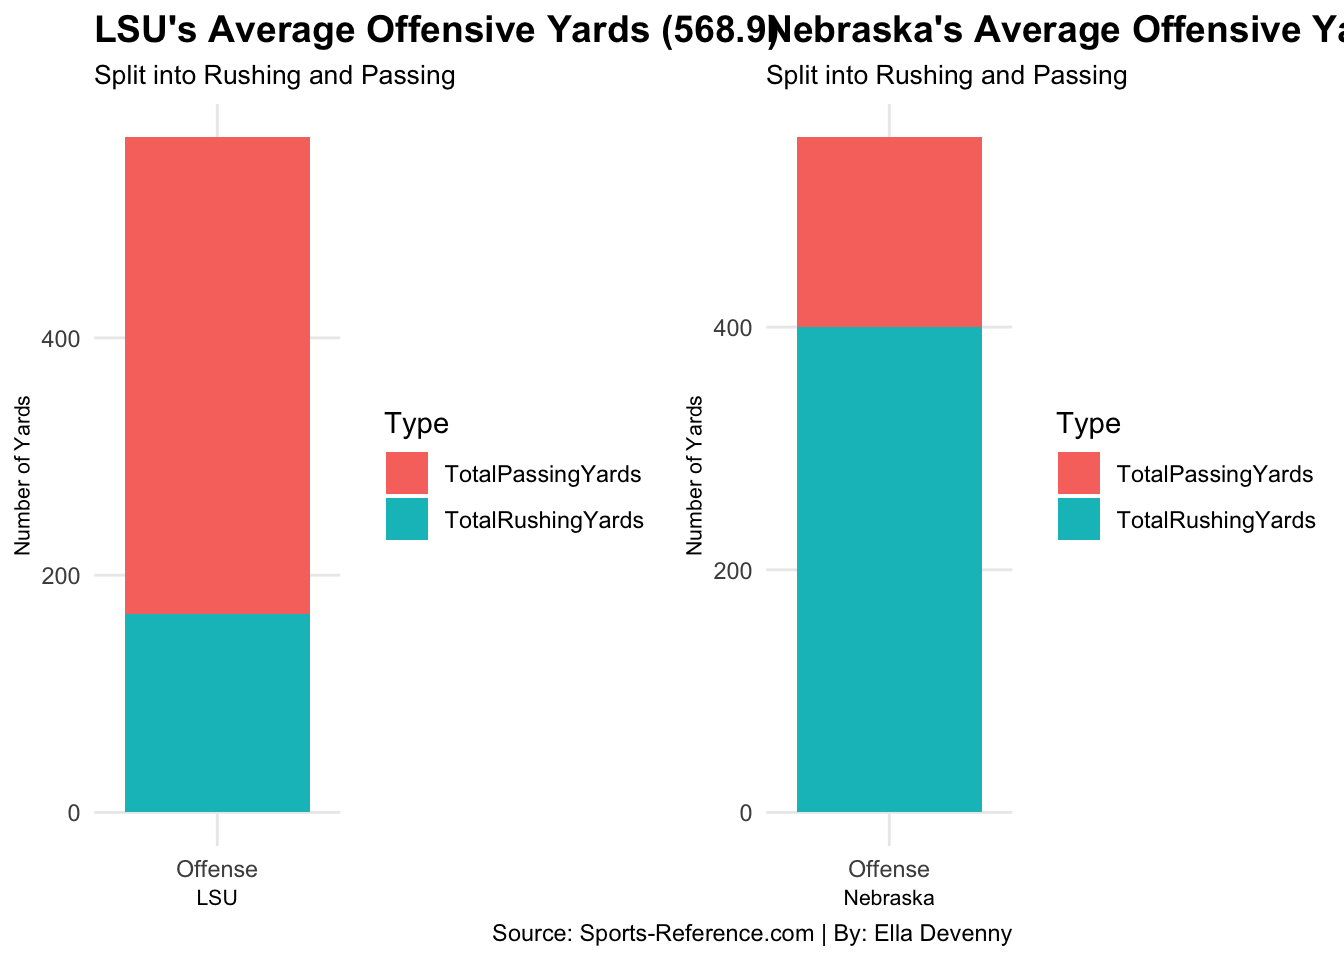
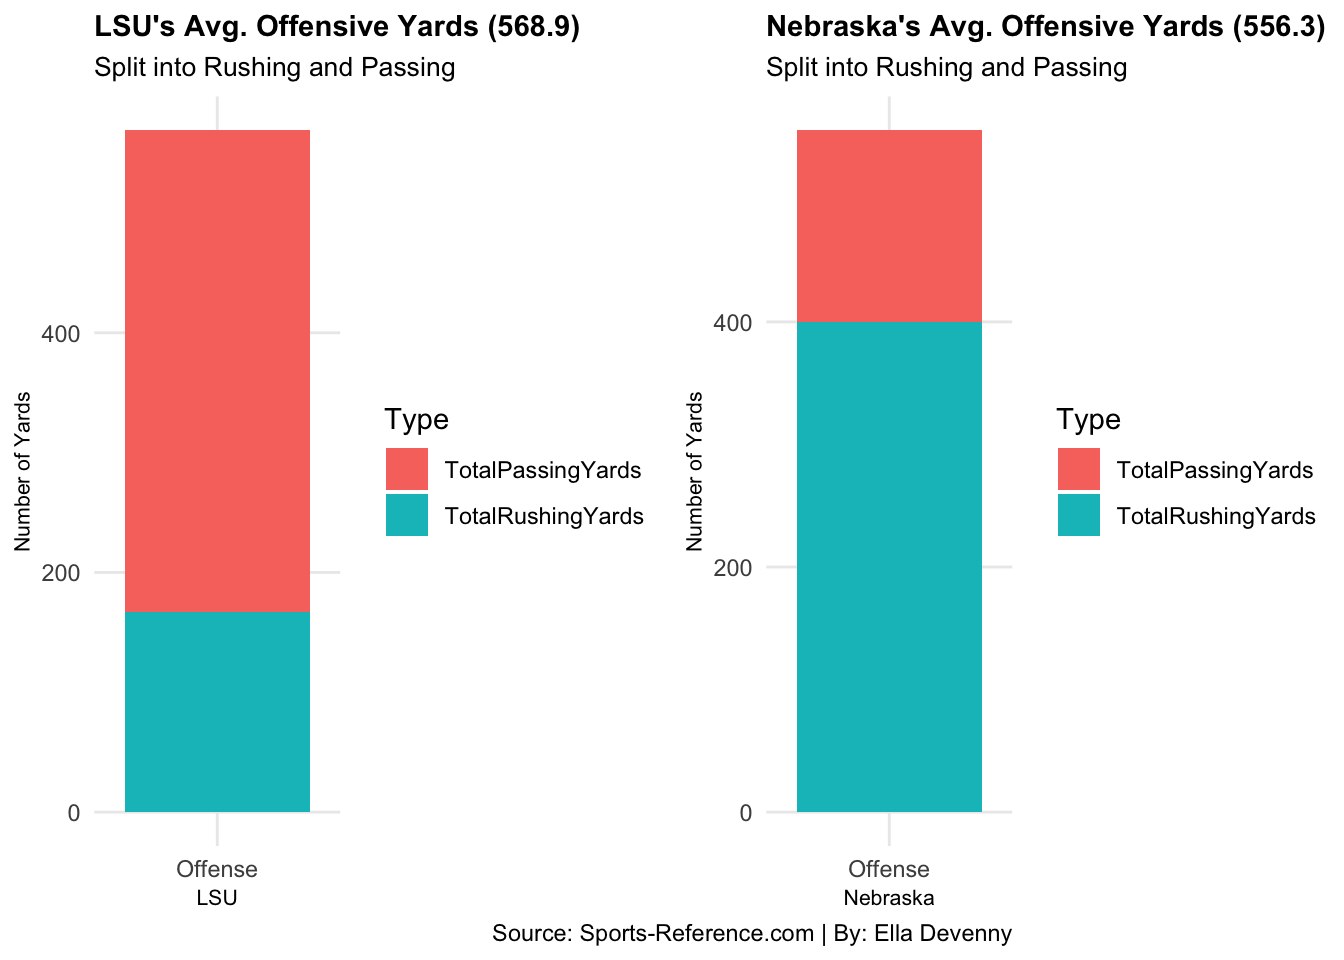
Fixing an error on my recent blog post.

diff --git a/2021/04/18/the-1995-nebraska-huskers-vs-the-2019-lsu-tigers/index.html b/2021/04/18/the-1995-nebraska-huskers-vs-the-2019-lsu-tigers/index.html
@@ -79,12 +79,12 @@
 <p>I was intrigued by this, given that the teams were in two different decades I wanted to dive deeper into the stats and come to the bottom of this discussion. They were both such dominant teams, so it will be cool to see where their strengths and weakness were. In order to have a better understanding of these teams, it is important to look at various aspects of their play on both sides of the ball.</p>
 <p>Which team had better stats and deserves the “best team in college football history” title?</p>
 <pre class="r"><code>library(tidyverse)</code></pre>
-<pre><code>## ── Attaching packages ─────────────── tidyverse 1.3.0 ──</code></pre>
+<pre><code>## ── Attaching packages ─────────────────────────────────────── tidyverse 1.3.0 ──</code></pre>
 <pre><code>## ✓ ggplot2 3.3.2     ✓ purrr   0.3.4
 ## ✓ tibble  3.0.3     ✓ dplyr   1.0.2
 ## ✓ tidyr   1.1.2     ✓ stringr 1.4.0
 ## ✓ readr   1.3.1     ✓ forcats 0.5.0</code></pre>
-<pre><code>## ── Conflicts ────────────────── tidyverse_conflicts() ──
+<pre><code>## ── Conflicts ────────────────────────────────────────── tidyverse_conflicts() ──
 ## x dplyr::filter() masks stats::filter()
 ## x dplyr::lag()    masks stats::lag()</code></pre>
 <pre class="r"><code>library(cowplot)
@@ -184,14 +184,14 @@ NEBoffenseyards %&gt;%
 <p>Something to point out, is that Nebraska’s offense yards came primarily from rushing, while LSU’s came primarily from passing. Different offensive strategies, but they both got the job done.</p>
 <pre class="r"><code>barLSU &lt;- ggplot(LSUoffensewide, aes(x=Split, weight=Yards, fill=Type)) +
   geom_bar() +
-  labs(title=&quot;LSU&#39;s Average Offensive Yards (568.9)&quot;,
+  labs(title=&quot;LSU&#39;s Avg. Offensive Yards (568.9)&quot;,
        subtitle=&quot;Split into Rushing and Passing&quot;,
        x=&quot;LSU&quot;,
        y=&quot;Number of Yards&quot;,
        caption = &quot;&quot;) + 
   theme_minimal() +
   theme(
-    plot.title = element_text(size = 14, face =&quot;bold&quot;),
+    plot.title = element_text(size = 11, face =&quot;bold&quot;),
     axis.title = element_text(size = 8),
     plot.subtitle = element_text(size = 10),
     panel.grid.minor = element_blank()
@@ -200,14 +200,14 @@ NEBoffenseyards %&gt;%
 
 barNEB &lt;- ggplot(NEBoffensewide, aes(x=Split, weight=Yards, fill=Type)) +
   geom_bar() +
-  labs(title=&quot;Nebraska&#39;s Average Offensive Yards (556.3)&quot;,
+  labs(title=&quot;Nebraska&#39;s Avg. Offensive Yards (556.3)&quot;,
        subtitle = &quot;Split into Rushing and Passing&quot;,
        x=&quot;Nebraska&quot;,
        y=&quot;Number of Yards&quot;,
        caption = &quot;Source: Sports-Reference.com | By: Ella Devenny&quot;) +
   theme_minimal() +
   theme(
-    plot.title = element_text(size = 14, face =&quot;bold&quot;),
+    plot.title = element_text(size = 11, face =&quot;bold&quot;),
     axis.title = element_text(size = 8),
     plot.subtitle = element_text(size = 10),
     panel.grid.minor = element_blank()
@@ -283,7 +283,7 @@ DEFchart &lt;- ggplot() +
 <pre class="r"><code>plot_grid(OFFchart, DEFchart, ncol=1)</code></pre>
 <p><img src="http://elladevenny.github.io/2021/04/18/the-1995-nebraska-huskers-vs-the-2019-lsu-tigers/index_files/figure-html/unnamed-chunk-10-1.png" width="672" />
 After completing this project and diving deeper into the stats of both of these teams, I have to give the 1995 Husker’s the “best team in college football history” title. Not because I am a student at UNL and a Huskers fan, but because the stats have given me reason to be comfortable in that statement. Not only did the Husker’s win by larger amounts than LSU through their season, but the Husker defensive is also stronger than the 2019 LSU Tiger’s defense. Nebraska was a rushing offense, and LSU’s defense allowed quite a bit of rushing yards. On the other side, LSU was a passing offense, and Nebraska’s defense allowed fewer passing yards than LSU’s defense.</p>
-<p>Now I know… Nebraska fan’s live in the past. But man what a time to have been a Husker fan!</p>
+<p>Now I know… Nebraska fan’s live in the past. But man what a time to have been a Husker fan! (I wasn’t born quite yet)</p>
 
     </div>
   </article>
